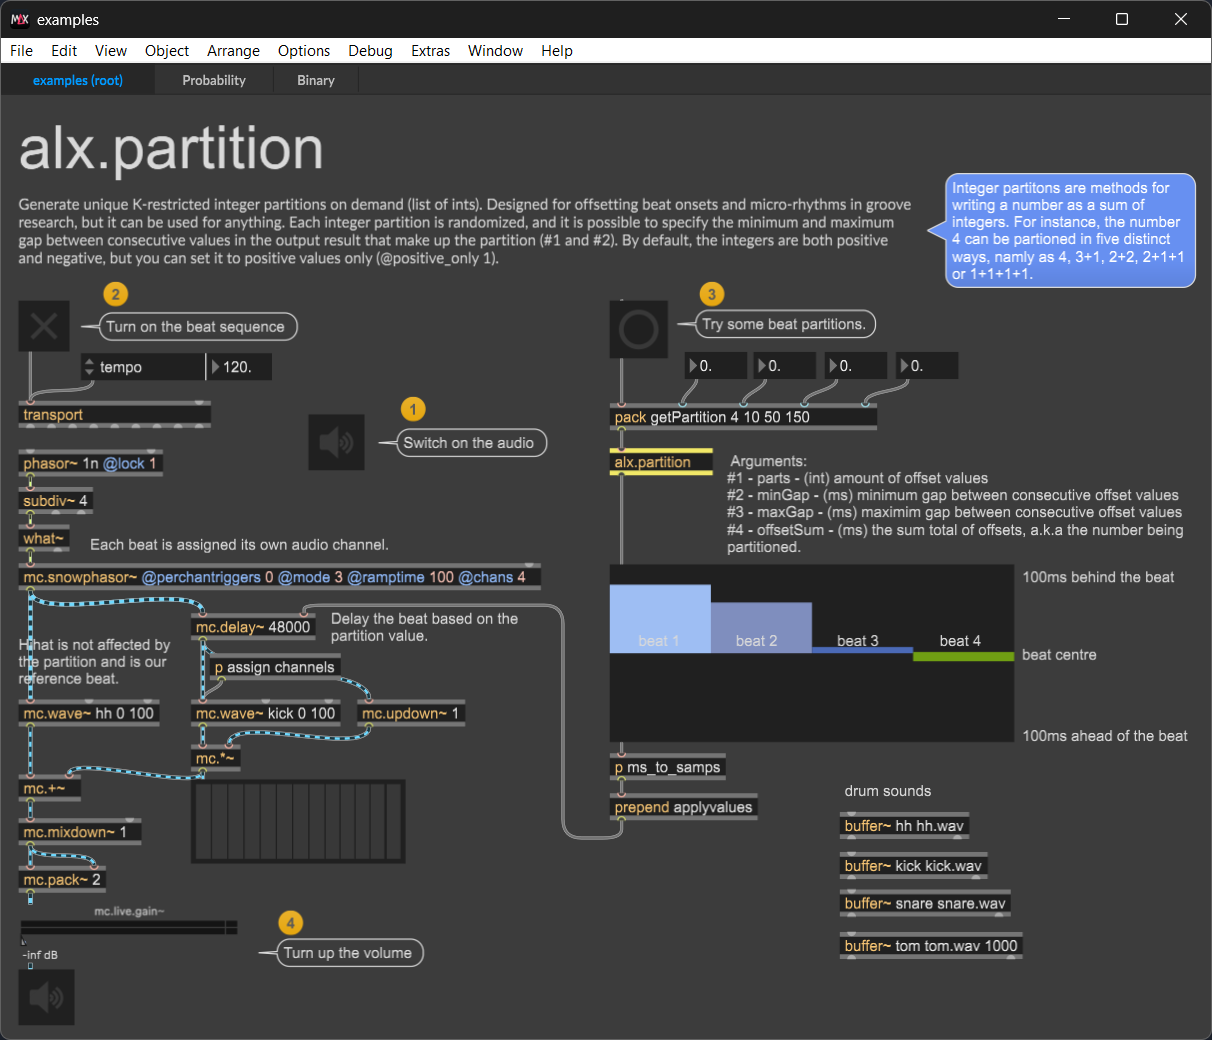
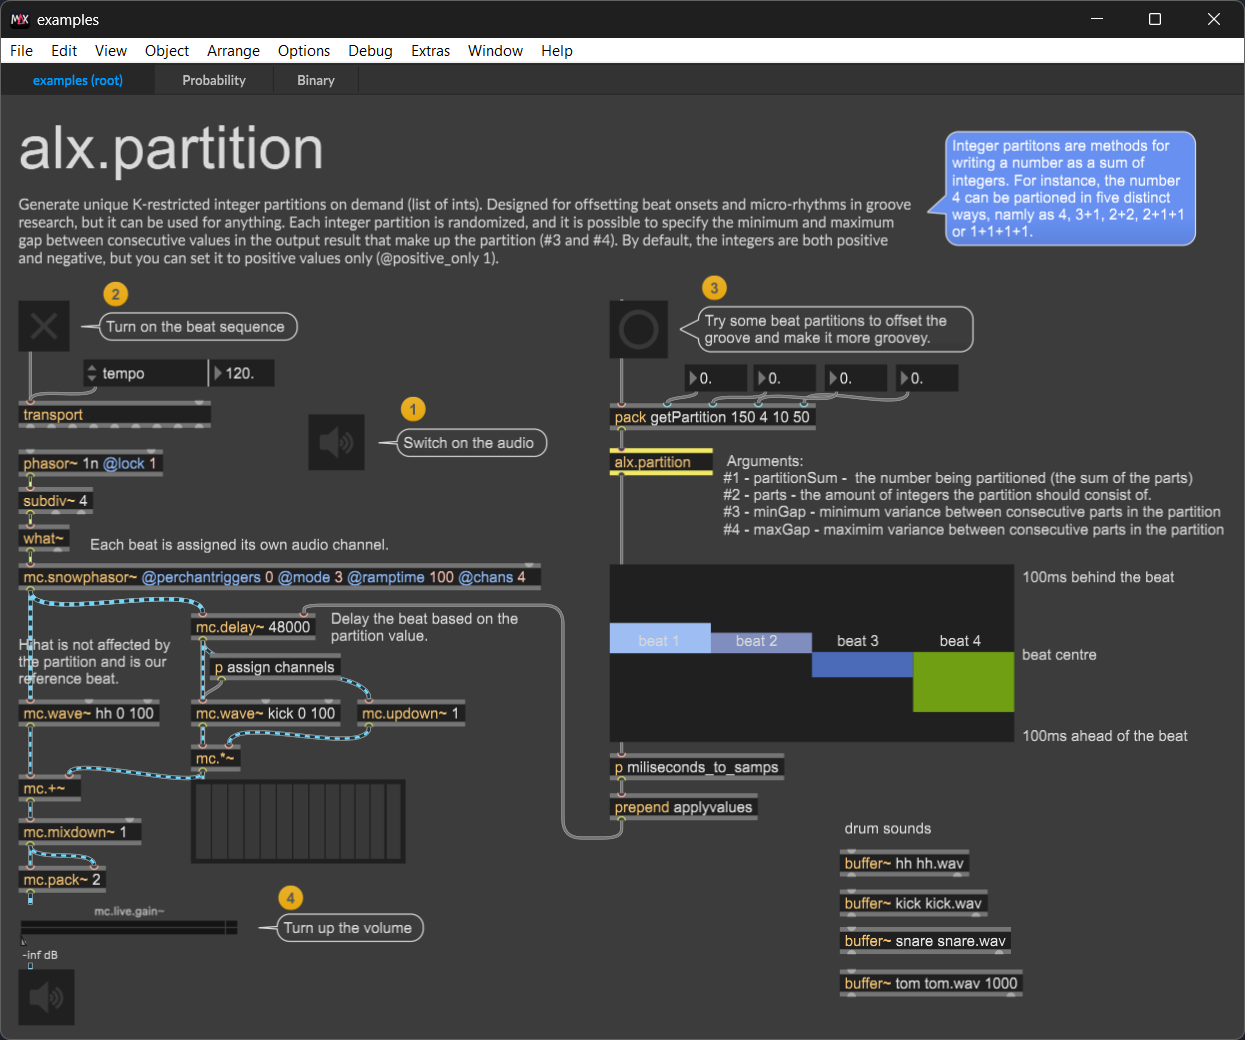
Updates

diff --git a/src/alx.partition/partition.js b/src/alx.partition/partition.js
@@ -1,6 +1,6 @@
-// generate list of random offset values using different methods.
+// Generate unique K-restricted integer partitions on demand.
 
-autowatch = 1;
+// autowatch = 1;
 inlets = 1;
 outlets = 2;
 
@@ -8,114 +8,25 @@ outlets = 2;
 var positive_only = 0;
 declareattribute("positive_only");
 
-function getOffsets(parts, min, max) {
+function getPartition(partitionSum, parts, minGap, maxGap) {
   /* 
-    Get random offset values (#1) within a specified range (#2 and #3). The values can be positive or negative.
+    Generate unique K-restricted integer partitions on demand (list of ints). Designed for offsetting beat onsets and micro-rhythms in groove research, but it can be used for anything. Each integer partition is randomized, and it is possible to specify the minimum and maximum gap between consecutive values in the output result that make up the partition (#3 and #4). By default, the integers are both positive and negative, but you can set it to positive values only (@positive_only 1).
 
-    Outputs a list.
+    For example, with the message "getPartition 200 4 10 150", you get 4 individual offset values that together add up to 200ms, with consecutive values a minimum of 10ms apart and a maximum of 150ms apart.
 
     Arguments:
-    #1 - amount of offsets
-    #2 - minimum range
-    #3 - maximum range
-  */
-
-  var parts = parts;
-  var min = min;
-  var max = max;
-  if (!parts) parts = 4;
-  if (!min) min = 0;
-  if (!max) max = 200;
-
-  var result = [];
-  for (var i = 0; i < parts; i++) {
-    // generate random number within a range
-    var number = Math.round(Math.random() * (max - min)) + min;
-    // decide if its -1 or 1 (positive or negative) — respect `positive_only`
-    var verdict = positive_only ? 1 : (Math.round(Math.random()) ? 1 : -1);
-    result.push(number * verdict);
-  }
-  outlet(0, result);
-}
-
-function getDist(parts, minGap, maxGap, offsetCeiling) {
-  /* 
-    Get a distribution of offset values (#1) where consecutive values are within a minGap and maxGap range (#2 and #3) from each other. The values are unique every time and can are both positive and negative, in miliseconds, deviating from a starting point at zero.
-
-    Arguments:
-    #1 - parts - (int) amount of offset values
-    #2 - minGap - (ms) minimum gap between consecutive offset values
-    #3 - maxGap - (ms) maximim gap between consecutive offset values (includes gap between negative and positive)
-    #4 - offsetCeiling- (ms) the max amount the offset values can deviate from 0.
-  */
-
-  var result = [];
-
-  // find and add other postive numbers that fulfill the various requirments
-  while (result.length < parts) {
-    var candidate = random(0, maxGap);
-    // outlet(1, "new candidate: " + candidate);
-
-    // check minGap constraint
-    if (Math.abs(candidate - result[result.length - 1]) < minGap) {
-      // outlet(1, "minGap not fulfilled, trying new candidate");
-      continue;
-    }
-
-    // check maxGap constraint
-    // also facotor inn the possibility of one number being negative and the other being positive.
-    if (Math.abs(candidate - result[result.length - 1]) > maxGap || candidate + result[result.length - 1] > maxGap) {
-      // outlet(1, "maxGap not fulfilled, trying new candidate");
-      continue;
-    }
-
-    // exceeding offsetCeiling
-    if (candidate + result[result.length - 1] > offsetCeiling) {
-      // outlet(1, "offsetCeiling not fulfilled, trying new candidate");
-      continue;
-    }
-
-    // outlet(1, "all requirements fulfilled, adding to result!");
-    // outlet(1, "-----------------------------");
-    result.push(candidate);
-  }
-
-  // randomlly decide if the offsets are ahead or behind the beat.
-  var resultFinal = result.map(function (a) {
-    // get either 1 or -1, the "verdict" — respect `positive_only`
-    var verdict = positive_only ? 1 : (Math.round(Math.random()) ? 1 : -1);
-    return a * verdict;
-  });
-
-  outlet(0, resultFinal);
-}
-
-function random(min, max) {
-  // get a random number within a set range
-  var number = Math.round(Math.random() * (max - min));
-  // offset to account for min number again
-  return number + min;
-}
-
-function getPartition(parts, minGap, maxGap, offsetSum) {
-  /* 
-    Get an restricted partition of offset values where the sum of all the values always is equal a specified offset sum. The values are unique every time and are both positive and negative, in miliseconds deviating from a starting point at zero.
-
-    It's also possible to specify the minimum and maximum variance between the offset values, i.e the gap between the numbers. F.ex with the message "getPartition 4 10 150 200", you get 4 invididual offset values that together add up to 200ms, whose consecutive values are a minimum of 10ms apart and a of maximum 150ms apart.
-
-    Arguments:
-    #1 - parts - (int) amount of offset values
-    #2 - minGap - (ms) minimum gap between consecutive offset values
-    #3 - maxGap - (ms) maximim gap between consecutive offset values (includes gap between negative and positive)
-    #4 - offsetSum - (ms) the sum total of offsets
+    #1 - partitionSum - (int) the number being partitioned (the sum of the parts added together)
+    #2 - parts - (int) the amount of integers the partition should consist of
+    #3 - minGap - (float) minimum variance between consecutive parts in the partition
+    #4 - maxGap - (float) maximim variance between consecutive parts in the partition
   */
 
   if (!parts) parts = 4;
   if (typeof minGap === "undefined" || minGap === null) minGap = 0;
-  if (typeof maxGap === "undefined" || maxGap === null) maxGap = offsetSum;
-  if (typeof offsetSum === "undefined" || offsetSum === null) offsetSum = 200;
+  if (typeof maxGap === "undefined" || maxGap === null) maxGap = partitionSum;
+  if (typeof partitionSum === "undefined" || partitionSum === null) partitionSum = 200;
 
-  var partition = findSignedPartition(parts, minGap, maxGap, offsetSum);
+  var partition = findSignedPartition(parts, minGap, maxGap, partitionSum);
 
   if (!partition)
     return error(

diff --git a/README.md b/README.md
@@ -7,9 +7,9 @@
 
 # alx.partition
 
-Generate unique K-restricted integer partitions on demand (list of ints). Designed for offsetting beat onsets and micro-rhythms in groove research, but it can be used for anything. Each integer partition is randomized, and it is possible to specify the minimum and maximum gap between consecutive values in the output result that make up the partition (#1 and #2). By default, the integers are both positive and negative, but you can set it to positive values only (@positive_only 1).
+Generate unique K-restricted integer partitions on demand (list of ints). Designed for offsetting beat onsets and micro-rhythms in groove research, but it can be used for anything. Each integer partition is randomized, and it is possible to specify the minimum and maximum gap between consecutive values in the output result that make up the partition (#3 and #4). By default, the integers are both positive and negative, but you can set it to positive values only (@positive_only 1).
 
-For example, with the message "getPartition 4 10 150 200", you get 4 individual offset values that together add up to 200ms, with consecutive values a minimum of 10ms apart and a maximum of 150ms apart.
+For example, with the message "getPartition 200 4 10 150", you get 4 individual offset values that together add up to 200, with consecutive values a minimum of 10 apart and a maximum of 150 apart.
 
 <p align="left">
  <img src="img/partition.png" width=600>